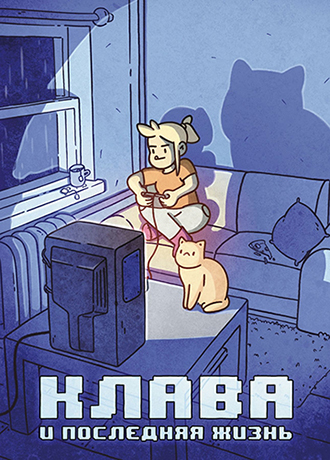
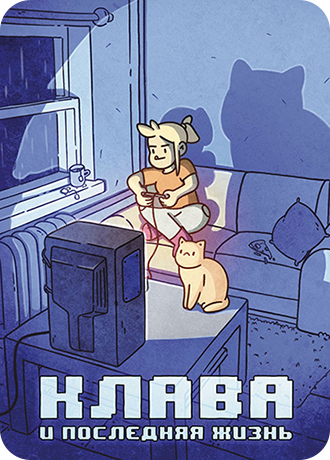
Add files via upload

diff --git a/style.css b/style.css
@@ -17,6 +17,12 @@
     font-family: 'Anitype Redwood1';
 }
 
+@media screen and (max-width: 400px) {
+.head{
+    font-size: 5rem;
+}
+}
+
 body {
     background:url(https://html5book.ru/wp-content/uploads/2015/10/background54.png)
 }
@@ -145,19 +151,21 @@ font-family: 'Xarrovv';
     display: inline-block;
     padding: 12px 20px;
     margin: 10px 20px;
-    border-radius: 30px;
 }
 
 a.photoklava {
     background: url("image/klava.jpg");
-        display: block;
-        width: 330px;
-    height: 460px;
+    display: block;
+    height: 100%;
+    background-size: contain;
+    background-repeat: no-repeat;
 }
 a.photoklava:hover {
-    	background: url("image/komiks.jpg");
-        width: 330px;
-    height: 460px;
+    background: url("image/komiks.jpg");
+    display: block;
+    height: 100%;
+    background-size: contain;
+    background-repeat: no-repeat;
 }
 
 .photoklava:hover {
@@ -174,13 +182,26 @@ a.photoklava:hover {
     outline: none;
     border-radius: 10px;
     text-align: center;
-    width: : 200px;
 
 }
 
 .video iframe{
     width: 500px;
     height: 315px;
+}
+
+@media screen and (max-width: 534px) {
+.video iframe{
+    width: 400px;
+    height: 215px;
+}
+}
+
+@media screen and (max-width: 375px) {
+.video iframe{
+    width: 300px;
+    height: 115px;
+}
 }
 
 .photo {
